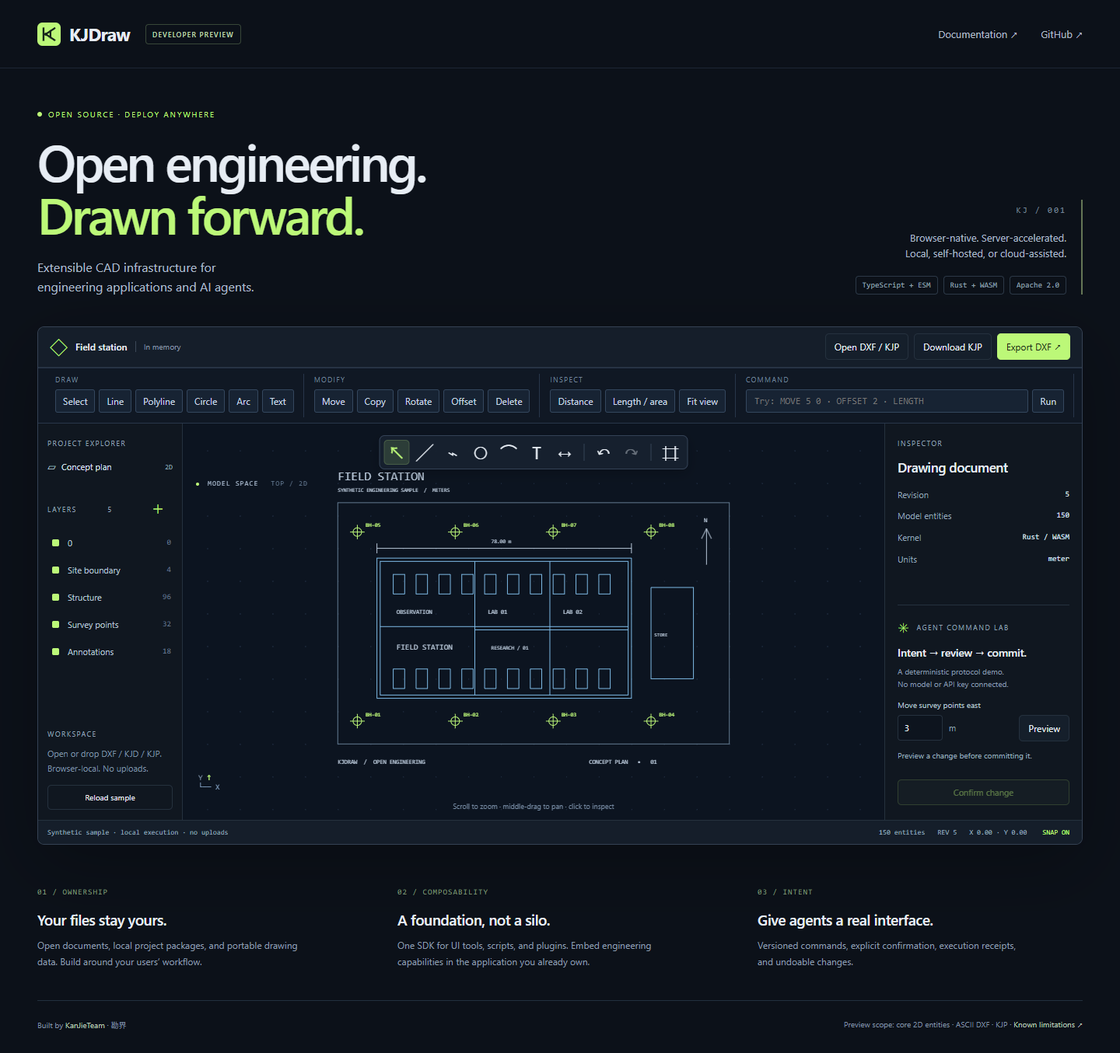
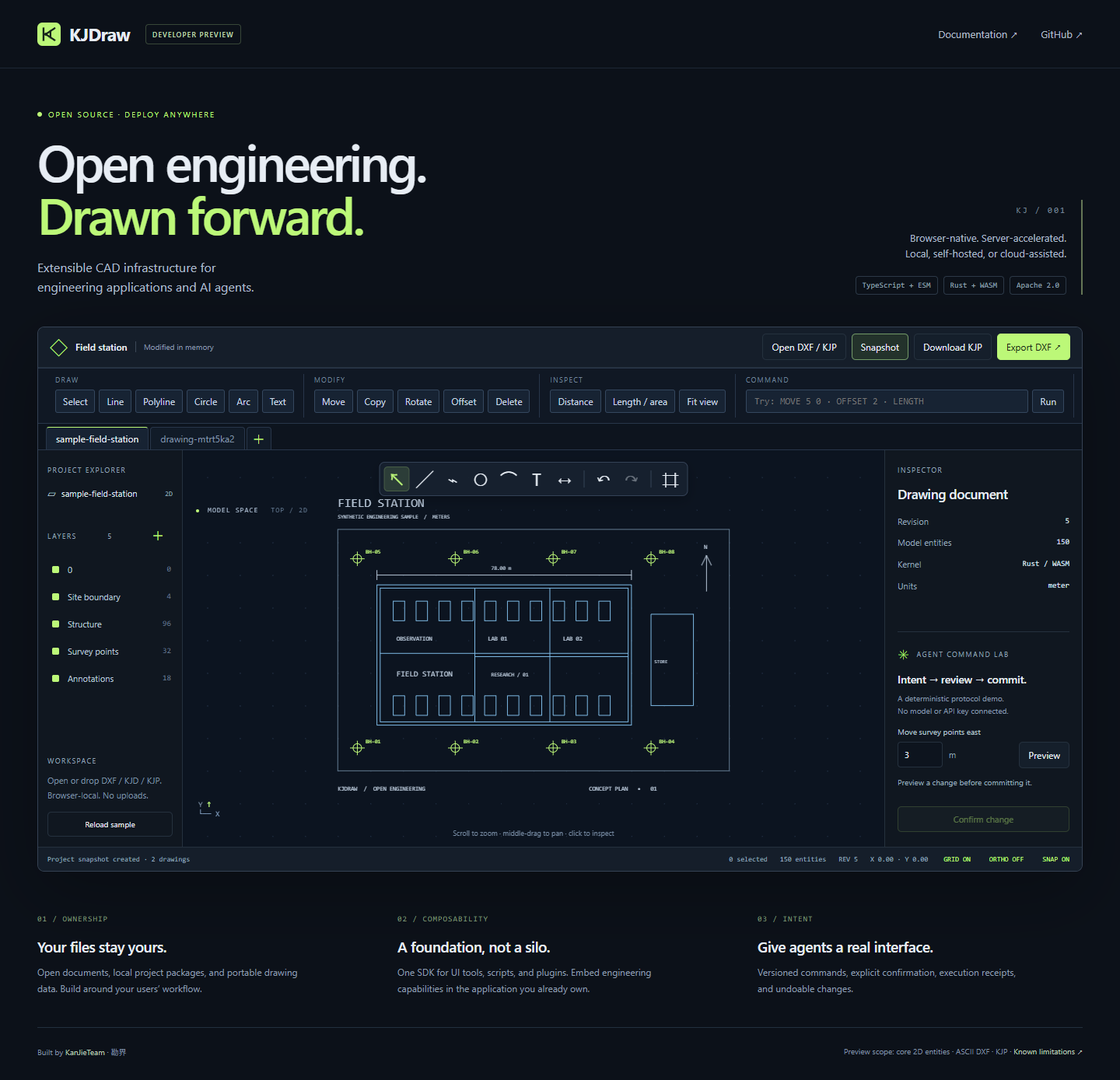
feat: turn the playground into a project workbench

diff --git a/apps/playground/app.js b/apps/playground/app.js
@@ -1,13 +1,16 @@
-import { createKJDrawSDK, KJProjectSession, instantiateKJCoreWasm, createWasmGeometryBackend, registerGeometryBackend, createKJCoreDocumentAuthority, createKJCoreSolidBackend } from '../../packages/kjdraw-sdk/src/index.js'
+import { createKJDrawSDK, KJProjectSession, instantiateKJCoreWasm, createWasmGeometryBackend, registerGeometryBackend, createKJCoreDocumentAuthority, createKJCoreSolidBackend, multiply3, rotation3, scale3, translation3, transformEntityPayload } from '../../packages/kjdraw-sdk/src/index.js'
 import { createSample } from '../../examples/sample.js'
 
 const $ = id => document.getElementById(id)
 const canvas = $('canvas'), ctx = canvas.getContext('2d')
 const camera = { x: 60, y: 38, scale: 4 }
 const colors = ['#c8d7e7','#ee9999','#e8d697','#bdf878','#7db9e4','#b795db','#de91bf','#b8c7d8','#637b91']
-const visibleTypes = new Set(['LINE','RAY','XLINE','CIRCLE','ARC','POINT','LWPOLYLINE','POLYLINE','ELLIPSE','SPLINE','TEXT','MTEXT','ATTDEF','ATTRIB','HATCH','LEADER','MLEADER','DIMENSION','WIPEOUT','REVISION_CLOUD','SOLID','TRACE','TABLE','VIEWPORT'])
-let sdk, session, selection = null, tool = 'select', start = null, draft = [], cursor = null, snapEnabled = true, pendingPlan = null, pan = null, busy = false, authority = null, solidAuthority = null, measurement = '', width = 1, height = 1
+const visibleTypes = new Set(['LINE','RAY','XLINE','CIRCLE','ARC','POINT','LWPOLYLINE','POLYLINE','ELLIPSE','SPLINE','TEXT','MTEXT','ATTDEF','ATTRIB','INSERT','HATCH','LEADER','MLEADER','DIMENSION','WIPEOUT','REVISION_CLOUD','SOLID','TRACE','TABLE','VIEWPORT'])
+let sdk, session, selection = new Set(), tool = 'select', start = null, draft = [], cursor = null, snapEnabled = true, gridEnabled = true, orthoEnabled = false, pendingPlan = null, pan = null, busy = false, authority = null, solidAuthority = null, measurement = '', width = 1, height = 1
 const doc = () => sdk.activeDocument
+const selectedIds = () => [...selection].filter(id => doc()?.getObject(id))
+const primarySelection = () => selectedIds().at(-1) ?? null
+function replaceSelection(ids = []) { selection = new Set(ids.filter(id => doc()?.getObject(id))) }
 const message = text => { $('status').textContent = text }
 const point = p => [(p[0]-camera.x)*camera.scale+width/2, height/2-(p[1]-camera.y)*camera.scale]
 const world = p => [(p[0]-width/2)/camera.scale+camera.x, (height/2-p[1])/camera.scale+camera.y]
@@ -25,10 +28,10 @@ function layerColor(entity) {
   return colors[Math.abs(Number(layer?.payload?.color ?? 7)) % colors.length]
 }
 function isVisible(entity) { if (!entity) return false; const p = doc().getObject(entity.payload?.layerId)?.payload; return p?.visible !== false && !p?.frozen }
-function drawEntity(entity, color, offset = [0,0], dashed = false) {
+function drawEntity(entity, color, offset = [0,0], dashed = false, depth = 0) {
   const p = entity.payload
   const map = v => point([v[0]+offset[0],v[1]+offset[1]])
-  ctx.strokeStyle = color; ctx.fillStyle = color; ctx.lineWidth = entity.id === selection ? 2 : 1; ctx.setLineDash(dashed ? [5,4] : [])
+  ctx.strokeStyle = color; ctx.fillStyle = color; ctx.lineWidth = selection.has(entity.id) ? 2 : 1; ctx.setLineDash(dashed ? [5,4] : [])
   ctx.beginPath()
   if (entity.type === 'LINE') { ctx.moveTo(...map(p.start)); ctx.lineTo(...map(p.end)); ctx.stroke() }
   else if (entity.type === 'RAY' || entity.type === 'XLINE') { const origin=map(p.origin),d=p.direction??[1,0],span=Math.max(width,height)*2,s=Math.hypot(d[0],d[1])||1,dx=d[0]/s*span,dy=-d[1]/s*span;ctx.moveTo(origin[0]-(entity.type==='XLINE'?dx:0),origin[1]-(entity.type==='XLINE'?dy:0));ctx.lineTo(origin[0]+dx,origin[1]+dy);ctx.stroke() }
@@ -49,6 +52,7 @@ function drawEntity(entity, color, offset = [0,0], dashed = false) {
   else if(['SOLID','TRACE','WIPEOUT','REVISION_CLOUD'].includes(entity.type)){const verts=p.vertices??[];verts.forEach((v,i)=>{const q=map(v.point??v);i?ctx.lineTo(...q):ctx.moveTo(...q)});ctx.closePath();ctx.globalAlpha=.15;ctx.fill();ctx.globalAlpha=1;ctx.stroke()}
   else if(entity.type==='VIEWPORT'){const [x,y]=map(p.center);ctx.rect(x-p.width*camera.scale/2,y-p.height*camera.scale/2,p.width*camera.scale,p.height*camera.scale);ctx.stroke()}
   else if(entity.type==='TABLE'){const [x,y]=map(p.position),totalW=(p.columnWidths??[]).reduce((a,b)=>a+b,0),totalH=(p.rowHeights??[]).reduce((a,b)=>a+b,0);ctx.rect(x,y,totalW*camera.scale,totalH*camera.scale);ctx.stroke()}
+  else if(entity.type==='INSERT'&&depth<8){const block=doc().getObject(p.blockRecordId),base=block?.payload?.basePoint??[0,0],factor=Array.isArray(p.scale)?p.scale:[p.scale??1,p.scale??1],matrix=multiply3(translation3(...p.position),multiply3(rotation3(p.rotation??0),multiply3(scale3(factor[0]??1,factor[1]??factor[0]??1),translation3(-base[0],-base[1]))));for(const child of doc().listEntities({ownerId:p.blockRecordId})){try{drawEntity({...child,payload:transformEntityPayload(child.type,child.payload,matrix)},color,offset,dashed,depth+1)}catch{}}}
   ctx.setLineDash([])
 }
 function rendererSupports(entity) { return visibleTypes.has(entity.type) && !(['LWPOLYLINE','POLYLINE'].includes(entity.type) && entity.payload.vertices?.some(v => v.bulge)) }
@@ -58,9 +62,9 @@ function render() {
   ctx.setTransform(ratio,0,0,ratio,0,0); ctx.clearRect(0,0,width,height)
   let grid = 10; while(grid*camera.scale<24)grid*=2; while(grid*camera.scale>100)grid/=2
   const a = world([0,height]), b = world([width,0]); ctx.fillStyle='#243349'
-  for(let x=Math.ceil(a[0]/grid)*grid;x<b[0];x+=grid)for(let y=Math.ceil(a[1]/grid)*grid;y<b[1];y+=grid){const [px,py]=point([x,y]);ctx.fillRect(px,py,1,1)}
+  if(gridEnabled)for(let x=Math.ceil(a[0]/grid)*grid;x<b[0];x+=grid)for(let y=Math.ceil(a[1]/grid)*grid;y<b[1];y+=grid){const [px,py]=point([x,y]);ctx.fillRect(px,py,1,1)}
   const entities = modelEntities()
-  for (const entity of entities) if(isVisible(entity))drawEntity(entity,entity.id === selection ? '#edffd8' : layerColor(entity))
+  for (const entity of entities) if(isVisible(entity))drawEntity(entity,selection.has(entity.id) ? '#edffd8' : layerColor(entity))
   if(pendingPlan)for(const entity of entities)if(pendingPlan.ids.includes(entity.id))drawEntity(entity,'#e4bc7b',[pendingPlan.dx,0],true)
   if(start && cursor)drawEntity({type:tool==='circle'?'CIRCLE':'LINE',payload:tool==='circle'?{center:start,radius:Math.hypot(cursor[0]-start[0],cursor[1]-start[1])}:{start,end:cursor}},'#bdf878',[0,0],true)
   if(tool==='polyline'&&draft.length>1){ctx.strokeStyle='#bdf878';ctx.setLineDash([5,4]);ctx.beginPath();draft.concat(cursor?[cursor]:[]).forEach((v,i)=>{const q=point(v);i?ctx.lineTo(...q):ctx.moveTo(...q)});ctx.stroke();ctx.setLineDash([])}
@@ -89,14 +93,18 @@ function bounds() {
 function fit(){const [x0,y0,x1,y1]=bounds();camera.x=(x0+x1)/2;camera.y=(y0+y1)/2;camera.scale=Math.max(.00001,Math.min((width-70)/Math.max(1,x1-x0),(height-145)/Math.max(1,y1-y0)));render()}
 function field(container,label,value) { const row=document.createElement('div');row.className='kv';const k=document.createElement('span'),v=document.createElement('b');k.textContent=label;v.textContent=String(value);row.append(k,v);container.append(row) }
 function refresh() {
+  const tabs=$('document-tabs');for(const old of tabs.querySelectorAll('[data-document]'))old.remove()
+  for(const drawing of session?.documents?.values()??[]){const button=document.createElement('button');button.dataset.document=drawing.id;button.textContent=drawing.snapshot().title||drawing.id;button.classList.toggle('active',drawing.id===session.activeDocumentId);button.onclick=()=>{session.setActiveDocument(drawing.id);replaceSelection();measurement='';$('drawing-title').textContent=drawing.snapshot().title||drawing.id;refresh();fit();message(`Active drawing · ${drawing.id}`)};tabs.insertBefore(button,$('new-drawing'))}
   $('entity-count').textContent=`${doc().listEntities().length} entities`;$('revision').textContent=`REV ${doc().revision}`
+  $('selection-count').textContent=`${selectedIds().length} selected`
   $('undo').disabled=!doc().history.canUndo;$('redo').disabled=!doc().history.canRedo
   const layers=doc().getTable('layers').records;$('layer-count').textContent=layers.length
   $('layers').replaceChildren()
   for(const layer of layers){const label=document.createElement('label');label.className='layer';const input=document.createElement('input');input.type='checkbox';input.checked=layer.payload.visible!==false;input.setAttribute('aria-label',`Show layer ${layer.name}`);input.onchange=()=>run(()=>execute('LAYERUPDATE',{id:layer.id,patch:{visible:input.checked}}));const name=document.createElement('span');name.textContent=layer.name;const count=document.createElement('small');count.textContent=doc().listEntities().filter(e=>e.payload.layerId===layer.id).length;label.append(input,name,count);$('layers').append(label)}
-  const entity=selection?doc().getObject(selection):null; if(!entity)selection=null
-  $('inspector').replaceChildren();const title=document.createElement('h3');title.textContent=entity?entity.type:'Drawing document';$('inspector').append(title)
+  replaceSelection(selectedIds());const entity=primarySelection()?doc().getObject(primarySelection()):null
+  $('inspector').replaceChildren();const title=document.createElement('h3');title.textContent=selectedIds().length>1?`${selectedIds().length} objects selected`:entity?entity.type:'Drawing document';$('inspector').append(title)
   if(entity){
+    if(selectedIds().length>1){const summary=document.createElement('div');summary.className='selection-summary';summary.textContent=`Primary: ${entity.type} · transforms and delete apply to all selected objects`;$('inspector').append(summary)}
     field($('inspector'),'Handle',entity.handle);field($('inspector'),'Layer',doc().getObject(entity.payload.layerId)?.name??'0');if(entity.payload.radius)field($('inspector'),'Radius',entity.payload.radius.toFixed(3));if(entity.payload.text)field($('inspector'),'Text',entity.payload.text)
     const editor=document.createElement('div');editor.className='property-editor'
     const layerLabel=document.createElement('label');layerLabel.textContent='LAYER';const layerSelect=document.createElement('select')
@@ -106,7 +114,7 @@ function refresh() {
     if(entity.type==='CIRCLE'||entity.type==='ARC'){const label=document.createElement('label');label.textContent='RADIUS';valueInput=document.createElement('input');valueInput.type='number';valueInput.min='0.000001';valueInput.step='0.1';valueInput.value=entity.payload.radius;label.append(valueInput);editor.append(label)}
     if(entity.type==='TEXT'||entity.type==='MTEXT'){const label=document.createElement('label');label.textContent='TEXT';valueInput=document.createElement('input');valueInput.value=entity.payload.text??'';label.append(valueInput);editor.append(label)}
     const save=document.createElement('button');save.textContent='Apply properties';save.onclick=()=>run(async()=>{const payload={...entity.payload,layerId:layerSelect.value};if(valueInput&&(entity.type==='CIRCLE'||entity.type==='ARC'))payload.radius=Number(valueInput.value);if(valueInput&&(entity.type==='TEXT'||entity.type==='MTEXT'))payload.text=valueInput.value;await execute('PROPERTIES',{id:entity.id,patch:{payload}})});editor.append(save);$('inspector').append(editor)
-    const erase=document.createElement('button');erase.textContent='Delete selected';erase.onclick=()=>run(()=>execute('ERASE',{ids:[selection]}));$('inspector').append(erase)
+    const erase=document.createElement('button');erase.textContent='Delete selected';erase.onclick=()=>run(()=>execute('ERASE',{ids:selectedIds()}));$('inspector').append(erase)
   }
   else {field($('inspector'),'Revision',doc().revision);field($('inspector'),'Model entities',modelEntities().length);field($('inspector'),'Kernel',authority?'Rust / WASM':'JS reference');field($('inspector'),'Units',doc().snapshot().header.units??'unspecified')}
   const omitted=modelEntities().filter(e=>!rendererSupports(e)).length
@@ -124,27 +132,27 @@ async function query(command,args={}) {
   measurement=`${command}: ${JSON.stringify(result)}`
   refresh();message(`${command} completed · drawing unchanged`);return result
 }
-function requireSelection(){const entity=selection?doc().getObject(selection):null;if(!entity)throw new Error('Select an entity first.');return entity}
+function requireSelection(){const entity=primarySelection()?doc().getObject(primarySelection()):null;if(!entity)throw new Error('Select an entity first.');return entity}
 async function transformSelection(command){
-  const entity=requireSelection()
-  if(command==='MOVE'||command==='COPY'){const dx=Number(window.prompt(`${command} X distance`,'5'));if(!Number.isFinite(dx))return;const dy=Number(window.prompt(`${command} Y distance`,'0'));if(!Number.isFinite(dy))return;const result=await execute(command,{ids:[entity.id],dx,dy});if(command==='COPY'&&Array.isArray(result)&&result[0]?.id)selection=result[0].id}
-  else if(command==='ROTATE'){const degrees=Number(window.prompt('Rotation angle in degrees','15'));if(!Number.isFinite(degrees))return;await execute('ROTATE',{ids:[entity.id],angle:degrees*Math.PI/180,center:[0,0]})}
-  else if(command==='OFFSET'){const distance=Number(window.prompt('Offset distance','2'));if(!Number.isFinite(distance))return;const result=await execute('OFFSET',{id:entity.id,distance});if(result?.id)selection=result.id}
+  const entity=requireSelection(),ids=selectedIds()
+  if(command==='MOVE'||command==='COPY'){const dx=Number(window.prompt(`${command} X distance`,'5'));if(!Number.isFinite(dx))return;const dy=Number(window.prompt(`${command} Y distance`,'0'));if(!Number.isFinite(dy))return;const result=await execute(command,{ids,dx,dy});if(command==='COPY'&&Array.isArray(result))replaceSelection(result.map(row=>row.id).filter(Boolean))}
+  else if(command==='ROTATE'){const degrees=Number(window.prompt('Rotation angle in degrees','15'));if(!Number.isFinite(degrees))return;await execute('ROTATE',{ids,angle:degrees*Math.PI/180,center:[0,0]})}
+  else if(command==='OFFSET'){if(ids.length!==1)throw new Error('OFFSET requires exactly one selected object.');const distance=Number(window.prompt('Offset distance','2'));if(!Number.isFinite(distance))return;const result=await execute('OFFSET',{id:entity.id,distance});if(result?.id)replaceSelection([result.id])}
   refresh()
 }
 async function runTypedCommand(){
   const raw=$('command-input').value.trim();if(!raw)return
   const [name,...values]=raw.split(/[\s,]+/),command=name.toUpperCase();$('command-input').value=''
   if(command==='FIT'){fit();message('View fitted');return}if(command==='UNDO'||command==='REDO'){await execute(command);return}
-  if(command==='MOVE'||command==='COPY'){const entity=requireSelection(),dx=Number(values[0]??0),dy=Number(values[1]??0);await execute(command,{ids:[entity.id],dx,dy});return}
-  if(command==='ROTATE'){const entity=requireSelection();await execute(command,{ids:[entity.id],angle:Number(values[0]??0)*Math.PI/180,center:[0,0]});return}
+  if(command==='MOVE'||command==='COPY'){requireSelection();const dx=Number(values[0]??0),dy=Number(values[1]??0);const result=await execute(command,{ids:selectedIds(),dx,dy});if(command==='COPY'&&Array.isArray(result))replaceSelection(result.map(row=>row.id).filter(Boolean));return}
+  if(command==='ROTATE'){requireSelection();await execute(command,{ids:selectedIds(),angle:Number(values[0]??0)*Math.PI/180,center:[0,0]});return}
   if(command==='OFFSET'){await execute(command,{id:requireSelection().id,distance:Number(values[0]??1)});return}
-  if(command==='ERASE'||command==='DELETE'){await execute('ERASE',{ids:[requireSelection().id]});return}
+  if(command==='ERASE'||command==='DELETE'){requireSelection();await execute('ERASE',{ids:selectedIds()});return}
   if(command==='LENGTH'||command==='AREA'){await query(command,{ids:[requireSelection().id]});return}
   throw new Error(`Supported commands: MOVE, COPY, ROTATE, OFFSET, LENGTH, AREA, ERASE, UNDO, REDO, FIT`)
 }
 async function run(work){if(busy)return;busy=true;try{await work()}catch(e){message(e.cause?.message??e.message);console.error(e)}finally{busy=false}}
-async function freshSample(){const next=createKJDrawSDK({documentAuthority:authority,solidAuthority});const document=await createSample(next);session?.destroy();sdk=next;session=KJProjectSession.create({sdk,id:'sample-field-station',title:'Field station',documents:[document],metadata:{synthetic:true}});selection=null;invalidatePlan();$('file-name').textContent='Field station';$('drawing-title').textContent='Concept plan';$('file-state').textContent='In memory';refresh();fit();message('Synthetic sample · local execution · no uploads')}
+async function freshSample(){const next=createKJDrawSDK({documentAuthority:authority,solidAuthority});const document=await createSample(next);session?.destroy();sdk=next;session=KJProjectSession.create({sdk,id:'sample-field-station',title:'Field station',documents:[document],metadata:{synthetic:true}});replaceSelection();invalidatePlan();$('file-name').textContent='Field station';$('drawing-title').textContent='Concept plan';$('file-state').textContent='In memory';refresh();fit();message('Synthetic sample · local execution · no uploads')}
 function download(content,name,type){const url=URL.createObjectURL(new Blob([content],{type}));const link=document.createElement('a');link.href=url;link.download=name;link.click();setTimeout(()=>URL.revokeObjectURL(url),30000)}
 async function openFile(file){
   if(!file)return
@@ -152,13 +160,14 @@ async function openFile(file){
   const next=createKJDrawSDK({documentAuthority:authority,solidAuthority});let project
   if(file.name.toLowerCase().endsWith('.kjp'))project=await KJProjectSession.open(new Uint8Array(await file.arrayBuffer()),{sdk:next})
   else {const format=file.name.toLowerCase().endsWith('.dxf')?'DXF':'KJD';const drawing=await next.readDocument(format==='DXF'?new Uint8Array(await file.arrayBuffer()):await file.text(),{format});project=KJProjectSession.create({sdk:next,title:file.name,documents:[drawing]})}
-  session?.destroy();sdk=next;session=project;selection=null;invalidatePlan();setTool('select');$('file-name').textContent=file.name;$('drawing-title').textContent=project.activeDocument.id;$('file-state').textContent='Opened locally';refresh();fit();message('File opened locally · unsupported view entities remain in the document')
+  session?.destroy();sdk=next;session=project;replaceSelection();invalidatePlan();setTool('select');$('file-name').textContent=file.name;$('drawing-title').textContent=project.activeDocument.snapshot().title||project.activeDocument.id;$('file-state').textContent='Opened locally';refresh();fit();message('File opened locally · unsupported view entities remain in the document')
 }
 $('open').onclick=()=>$('file-input').click()
 $('file-input').onchange=e=>run(async()=>{try{await openFile(e.target.files[0])}finally{e.target.value=''}})
 for(const eventName of ['dragenter','dragover'])$('drop-zone').addEventListener(eventName,e=>{e.preventDefault();$('drop-zone').classList.add('dragging')})
 for(const eventName of ['dragleave','drop'])$('drop-zone').addEventListener(eventName,e=>{e.preventDefault();$('drop-zone').classList.remove('dragging')})
 $('drop-zone').addEventListener('drop',e=>run(()=>openFile(e.dataTransfer?.files?.[0])))
+$('snapshot').onclick=()=>{const record=session.createSnapshot(`Snapshot ${session.snapshotLedger.length+1}`);$('file-state').textContent='Modified in memory';message(`Project snapshot created · ${record.documents.length} drawing${record.documents.length===1?'':'s'}`)}
 $('save').onclick=()=>run(async()=>{const bytes=await session.package();download(bytes,'drawing.kjp','application/zip');message('KJP download requested · includes every drawing in this project')})
 $('export').onclick=()=>run(async()=>{const text=await sdk.writeDocument(doc(),{format:'DXF',version:'2018'});download(text,'drawing.dxf','application/dxf');message('ASCII DXF 2018 downloaded · core adapter, see compatibility limits')})
 $('undo').onclick=()=>run(()=>execute('UNDO'));$('redo').onclick=()=>run(()=>execute('REDO'));$('fit').onclick=fit
@@ -167,13 +176,16 @@ $('move-selection').onclick=()=>run(()=>transformSelection('MOVE'))
 $('copy-selection').onclick=()=>run(()=>transformSelection('COPY'))
 $('rotate-selection').onclick=()=>run(()=>transformSelection('ROTATE'))
 $('offset-selection').onclick=()=>run(()=>transformSelection('OFFSET'))
-$('delete-selection').onclick=()=>run(()=>execute('ERASE',{ids:[requireSelection().id]}))
+$('delete-selection').onclick=()=>run(()=>{requireSelection();return execute('ERASE',{ids:selectedIds()})})
 $('measure-entity').onclick=()=>run(async()=>{const entity=requireSelection();const supportedArea=['CIRCLE','ELLIPSE','LWPOLYLINE','POLYLINE','SOLID','TRACE'].includes(entity.type);await query(supportedArea?'AREA':'LENGTH',{ids:[entity.id]})})
 $('run-command').onclick=()=>run(runTypedCommand)
 $('command-input').onkeydown=e=>{if(e.key==='Enter')run(runTypedCommand)}
 $('new-layer').onclick=()=>run(async()=>{const name=window.prompt('New layer name','Design');if(!name?.trim())return;await execute('LAYERNEW',{name:name.trim(),color:3})})
+$('new-drawing').onclick=()=>run(async()=>{const name=window.prompt('Drawing name',`Drawing ${session.documents.size+1}`);if(!name?.trim())return;const id=`drawing-${Date.now().toString(36)}`,drawing=sdk.createDocument({documentId:id,title:name.trim(),units:doc().snapshot().header.units??'unitless'});session.attachDocument(drawing);session.setActiveDocument(id);replaceSelection();measurement='';$('drawing-title').textContent=name.trim();$('file-state').textContent='Modified in memory';refresh();fit();message(`Drawing created · ${name.trim()}`)})
 $('reset').onclick=()=>run(async()=>{if(window.confirm('Replace the open project with the sample? Download KJP first to keep your changes.'))await freshSample()})
 $('snap').onclick=()=>{snapEnabled=!snapEnabled;$('snap').textContent=`SNAP ${snapEnabled?'ON':'OFF'}`;$('snap').setAttribute('aria-pressed',String(snapEnabled))}
+$('grid').onclick=()=>{gridEnabled=!gridEnabled;$('grid').textContent=`GRID ${gridEnabled?'ON':'OFF'}`;$('grid').setAttribute('aria-pressed',String(gridEnabled));render()}
+$('ortho').onclick=()=>{orthoEnabled=!orthoEnabled;$('ortho').textContent=`ORTHO ${orthoEnabled?'ON':'OFF'}`;$('ortho').setAttribute('aria-pressed',String(orthoEnabled));render()}
 for(const b of document.querySelectorAll('[data-tool]'))b.onclick=()=>setTool(b.dataset.tool)
 $('shift').oninput=()=>{invalidatePlan();render()}
 $('plan').onclick=()=>run(async()=>{
@@ -193,17 +205,22 @@ $('confirm').onclick=()=>run(async()=>{
 })
 function pointer(e){const r=canvas.getBoundingClientRect();return [e.clientX-r.left,e.clientY-r.top]}
 function snap(p){if(!snapEnabled||!sdk)return p;const hits=sdk.snap(p,{radius:8/camera.scale,modes:['endpoint','midpoint','center','nearest']});return hits[0]?.point??p}
+function constrainedPoint(p){const value=snap(p);if(!orthoEnabled||!start)return value;const dx=Math.abs(value[0]-start[0]),dy=Math.abs(value[1]-start[1]);return dx>=dy?[value[0],start[1]]:[start[0],value[1]]}
 canvas.onpointermove=e=>{
   const p=pointer(e)
   if(pan){camera.x=pan.x-(p[0]-pan.p[0])/camera.scale;camera.y=pan.y+(p[1]-pan.p[1])/camera.scale;render();return}
-  cursor=snap(world(p));$('coordinates').textContent=`X ${cursor[0].toFixed(2)} · Y ${cursor[1].toFixed(2)}`;if(start)render()
+  cursor=constrainedPoint(world(p));$('coordinates').textContent=`X ${cursor[0].toFixed(2)} · Y ${cursor[1].toFixed(2)}`;if(start)render()
 }
 canvas.onpointerdown=e=>{
   if(e.button===1){e.preventDefault();pan={p:pointer(e),x:camera.x,y:camera.y};canvas.setPointerCapture(e.pointerId);return}
   if(e.button!==0||busy)return
-  const p=snap(world(pointer(e)))
+  const p=constrainedPoint(world(pointer(e)))
   if(tool==='select'){
-    const candidates=sdk.snap(world(pointer(e)),{radius:10/camera.scale,modes:['nearest','center','endpoint']});selection=candidates.find(c=>isVisible(doc().getObject(c.entityIds[0])))?.entityIds[0]??null;refresh();return
+    const candidates=sdk.snap(world(pointer(e)),{radius:10/camera.scale,modes:['nearest','center','endpoint']})
+      .map(candidate=>candidate.entityIds[0]).filter((id,index,ids)=>ids.indexOf(id)===index&&isVisible(doc().getObject(id)))
+    const id=e.shiftKey?(candidates.find(candidate=>!selection.has(candidate))??candidates[0]??null):(candidates[0]??null)
+    if(e.shiftKey){if(id)selection.has(id)?selection.delete(id):selection.add(id)}else replaceSelection(id?[id]:[])
+    refresh();return
   }
   if(tool==='text'){const text=window.prompt('Text content','KJDraw');if(text)run(()=>execute('CREATE',{type:'TEXT',payload:{position:p,height:2.5,rotation:0,text}}));return}
   if(tool==='measure'){

diff --git a/apps/playground/index.html b/apps/playground/index.html
@@ -8,25 +8,27 @@
   <link rel="icon" href="./docs/assets/mark.svg" type="image/svg+xml">
   <link rel="stylesheet" href="./apps/playground/style.css">
   <link rel="stylesheet" href="./apps/playground/workbench.css">
+  <link rel="stylesheet" href="./apps/playground/studio.css">
 </head>
 <body>
   <header class="site-header"><a class="brand" href="./"><img src="./docs/assets/mark.svg" alt="" width="30" height="30">KJDraw<span class="tag">DEVELOPER PREVIEW</span></a><nav><a href="./docs/getting-started.md">Documentation ↗</a><a href="https://github.com/KanJieTeam/kjdraw">GitHub ↗</a></nav></header>
   <main>
     <section class="hero"><div><div class="eyebrow"><span class="dot"></span> OPEN SOURCE · DEPLOY ANYWHERE</div><h1>Open engineering.<br><span>Drawn forward.</span></h1><p>Extensible CAD infrastructure for<br class="desktop"> engineering applications and AI agents.</p></div><div class="hero-aside"><span class="issue">KJ / 001</span><p>Browser-native. Server-accelerated.<br>Local, self-hosted, or cloud-assisted.</p><div class="tech-tags"><span>TypeScript + ESM</span><span>Rust + WASM</span><span>Apache 2.0</span></div></div></section>
     <section class="workbench" aria-label="KJDraw interactive playground">
-      <div class="workbench-head"><div class="file-title"><span class="file-icon">◇</span><strong id="file-name">Field station</strong><span id="file-state">In memory</span></div><div class="file-actions"><button id="open">Open DXF / KJP</button><button id="save">Download KJP</button><button id="export" class="primary">Export DXF ↗</button><input id="file-input" type="file" accept=".dxf,.kjp,.kjd" hidden></div></div>
+      <div class="workbench-head"><div class="file-title"><span class="file-icon">◇</span><strong id="file-name">Field station</strong><span id="file-state">In memory</span></div><div class="file-actions"><button id="open">Open DXF / KJP</button><button id="snapshot">Snapshot</button><button id="save">Download KJP</button><button id="export" class="primary">Export DXF ↗</button><input id="file-input" type="file" accept=".dxf,.kjp,.kjd" hidden></div></div>
       <div class="cad-ribbon" aria-label="CAD commands">
         <div class="ribbon-group"><small>DRAW</small><button data-tool="select">Select</button><button data-tool="line">Line</button><button data-tool="polyline">Polyline</button><button data-tool="circle">Circle</button><button data-tool="arc">Arc</button><button data-tool="text">Text</button></div>
         <div class="ribbon-group"><small>MODIFY</small><button id="move-selection">Move</button><button id="copy-selection">Copy</button><button id="rotate-selection">Rotate</button><button id="offset-selection">Offset</button><button id="delete-selection">Delete</button></div>
         <div class="ribbon-group"><small>INSPECT</small><button data-tool="measure">Distance</button><button id="measure-entity">Length / area</button><button id="fit-ribbon">Fit view</button></div>
         <div class="ribbon-group ribbon-command"><small>COMMAND</small><input id="command-input" aria-label="Command input" placeholder="Try: MOVE 5 0 · OFFSET 2 · LENGTH" autocomplete="off"><button id="run-command">Run</button></div>
       </div>
+      <div class="document-tabs" id="document-tabs" aria-label="Project drawings"><button id="new-drawing" title="Add drawing">＋</button></div>
       <div class="workspace">
         <aside class="left-panel"><div class="panel-heading">PROJECT EXPLORER</div><div class="document-row">▱ <span id="drawing-title">Concept plan</span><span class="small-label">2D</span></div><div class="panel-heading section-space">LAYERS <span id="layer-count"></span><button id="new-layer" class="panel-add" title="Create layer">＋</button></div><div id="layers"></div><div class="left-bottom"><div class="panel-heading">WORKSPACE</div><p>Open or drop DXF / KJD / KJP.<br>Browser-local. No uploads.</p><button id="reset">Reload sample</button></div></aside>
         <div class="stage" id="drop-zone"><div class="toolbar" role="toolbar" aria-label="Drawing tools"><button data-tool="select" class="active" title="Select (V)" aria-label="Select" aria-pressed="true">↖</button><button data-tool="line" title="Line (L)" aria-label="Draw line" aria-pressed="false">╱</button><button data-tool="polyline" title="Polyline (P)" aria-label="Draw polyline" aria-pressed="false">⌁</button><button data-tool="circle" title="Circle (C)" aria-label="Draw circle" aria-pressed="false">○</button><button data-tool="arc" title="Arc (A)" aria-label="Draw arc" aria-pressed="false">⌒</button><button data-tool="text" title="Text (T)" aria-label="Draw text" aria-pressed="false">T</button><button data-tool="measure" title="Distance (D)" aria-label="Measure distance" aria-pressed="false">↔</button><span class="separator"></span><button id="undo" title="Undo" aria-label="Undo">↶</button><button id="redo" title="Redo" aria-label="Redo">↷</button><span class="separator"></span><button id="fit" title="Fit drawing" aria-label="Fit drawing">⌗</button></div><canvas id="canvas" aria-label="CAD drawing canvas" tabindex="0"></canvas><div class="stage-label"><span class="dot"></span> MODEL SPACE <span>TOP / 2D</span></div><div class="orientation">Y <span>↑</span><div>└── X</div></div><div id="hint" class="stage-hint">Scroll to zoom · middle-drag to pan · click to inspect</div><div id="drop-hint" class="drop-hint">Drop DXF / KJD / KJP to open locally</div></div>
         <aside class="right-panel"><div class="panel-heading">INSPECTOR</div><div id="inspector" class="inspector"></div><div class="agent-panel"><div class="panel-heading"><span class="agent-symbol">✳</span> AGENT COMMAND LAB</div><h3>Intent → review → commit.</h3><p>A deterministic protocol demo.<br>No model or API key connected.</p><label for="shift">Move survey points east</label><div class="input-row"><input id="shift" type="number" min="-100" max="100" step="1" value="3"><span>m</span><button id="plan">Preview</button></div><div id="plan-state" class="plan-state">Preview a change before committing it.</div><button id="confirm" class="confirm" disabled>Confirm change</button></div></aside>
       </div>
-      <div class="statusbar"><span id="status" role="status" aria-live="polite">Loading local SDK…</span><div><span id="entity-count">0 entities</span><span id="revision">REV 0</span><span id="coordinates">X 0.00 · Y 0.00</span><button id="snap" aria-pressed="true">SNAP ON</button></div></div>
+      <div class="statusbar"><span id="status" role="status" aria-live="polite">Loading local SDK…</span><div><span id="selection-count">0 selected</span><span id="entity-count">0 entities</span><span id="revision">REV 0</span><span id="coordinates">X 0.00 · Y 0.00</span><button id="grid" aria-pressed="true">GRID ON</button><button id="ortho" aria-pressed="false">ORTHO OFF</button><button id="snap" aria-pressed="true">SNAP ON</button></div></div>
     </section>
     <section class="principles"><article><span>01 / OWNERSHIP</span><h2>Your files stay yours.</h2><p>Open documents, local project packages, and portable drawing data. Build around your users’ workflow.</p></article><article><span>02 / COMPOSABILITY</span><h2>A foundation, not a silo.</h2><p>One SDK for UI tools, scripts, and plugins. Embed engineering capabilities in the application you already own.</p></article><article><span>03 / INTENT</span><h2>Give agents a real interface.</h2><p>Versioned commands, explicit confirmation, execution receipts, and undoable changes.</p></article></section>
     <footer><span>Built by <a href="https://github.com/KanJieTeam">KanJieTeam</a> · 勘界</span><span>Preview scope: core 2D entities · ASCII DXF · KJP · <a href="./docs/status.md">Known limitations ↗</a></span></footer>

diff --git a/apps/playground/studio.css b/apps/playground/studio.css
@@ -1,0 +1,51 @@
+.document-tabs {
+  height: 34px;
+  display: flex;
+  align-items: end;
+  gap: 2px;
+  padding: 4px 10px 0;
+  overflow-x: auto;
+  border-bottom: 1px solid #28364a;
+  background: #0d141e;
+}
+
+.document-tabs button {
+  height: 29px;
+  min-width: 110px;
+  padding: 0 12px;
+  border: 1px solid #28364a;
+  border-bottom: 0;
+  border-radius: 4px 4px 0 0;
+  background: #111b28;
+  color: #8295aa;
+  white-space: nowrap;
+}
+
+.document-tabs button.active {
+  border-top-color: #bdf878;
+  background: #172333;
+  color: #e7edf4;
+}
+
+.document-tabs #new-drawing {
+  width: 32px;
+  min-width: 32px;
+  padding: 0;
+  color: #bdf878;
+  font-size: 16px;
+}
+
+.selection-summary {
+  margin: 8px 0;
+  padding: 8px;
+  border-left: 2px solid #bdf878;
+  background: #15211b;
+  color: #dfffc1;
+  font: 10px Consolas, monospace;
+}
+
+@media (max-width: 780px) {
+  .document-tabs { padding-left: 7px; }
+  .document-tabs button { min-width: 90px; }
+  #selection-count, #grid, #ortho { display: none; }
+}

diff --git a/README.md b/README.md
@@ -41,7 +41,7 @@ node scripts/serve.mjs
 
 Open **http://localhost:4173**. No package installation, account, model API key, or backend service is needed. A prebuilt WASM kernel is included; its Rust source is in this repository. Applications can later attach explicit project, compute or scene providers for self-hosted and cloud-assisted deployments.
 
-The playground uses an original, synthetic field-station plan. Open or drop DXF/KJD/KJP files, draw lines, polylines, circles, arcs and text, edit layers and properties, measure geometry, run common modify commands, undo changes, download a KJP project, or export the ASCII DXF core subset. In the **Agent Command Lab**, preview moving the survey-point layer, inspect the amber proposal, and explicitly confirm the change.
+The playground uses an original, synthetic field-station plan. Open or drop DXF/KJD/KJP files; create multiple drawings in one project; capture project-wide snapshots; draw lines, polylines, circles, arcs and text; Shift-select and transform object sets; toggle grid, object snap and orthographic constraints; edit layers and properties; measure geometry; undo changes; download a KJP project; or export the ASCII DXF core subset. In the **Agent Command Lab**, preview moving the survey-point layer, inspect the amber proposal, and explicitly confirm the change.
 
 The command lab is a deterministic example of the agent protocol, not a connected language model. Files are processed in your browser. The playground does not upload drawings or include analytics. Download KJP before leaving the page to keep edits.
 
@@ -58,6 +58,7 @@ The command lab is a deterministic example of the agent protocol, not a connecte
 | Foundation | Available in this preview |
 | --- | --- |
 | **Documents** | Stable object IDs and CAD handles; layers, blocks, model/paper spaces, resources and revisions |
+| **Workbench** | Multi-drawing project tabs, project snapshots, multi-selection, drafting toggles, properties, measurements and responsive layouts |
 | **Editing** | Atomic transactions, undo/redo, transforms, selection, snaps and a declared subset of trim/extend/offset/fillet operations |
 | **File exchange** | JSON KJD documents, ZIP64 KJP projects, development ASCII DXF adapter with explicit limitations |
 | **Extensions** | Registries for commands, entities, file adapters and other extension points; plugin compatibility and permission declarations |

diff --git a/README.zh-CN.md b/README.zh-CN.md
@@ -33,7 +33,7 @@ node scripts/serve.mjs
 
 打开 **http://localhost:4173**。无需安装 npm 依赖、注册账号、配置模型密钥或启动业务后端。仓库包含可重建的 WASM 文件和对应 Rust 源码。实际应用可以按需挂接工程存储、远程计算和大场景流送 Provider。
 
-演示图由原创合成数据生成。可以打开或拖入 DXF/KJD/KJP，绘制直线、折线、圆、圆弧和文字，编辑图层与对象属性，测量几何，执行常用修改命令，撤销、下载 KJP、导出 ASCII DXF。右侧 **Agent Command Lab** 可预览勘探点图层的移动，再由用户确认提交；琥珀色虚线表示建议位置。
+演示图由原创合成数据生成。可以打开或拖入 DXF/KJD/KJP，在一个工程中创建和切换多张图纸，生成覆盖全部图纸的工程快照，绘制直线、折线、圆、圆弧和文字，Shift 多选并整组变换，切换栅格、对象捕捉和正交约束，编辑图层与对象属性，测量几何，撤销、下载 KJP、导出 ASCII DXF。右侧 **Agent Command Lab** 可预览勘探点图层的移动，再由用户确认提交；琥珀色虚线表示建议位置。
 
 这是确定性的命令协议演示，尚未接入大模型。文件在浏览器本地处理，演示不上传图纸，也不包含分析埋点。离开页面前请下载 KJP 保存修改。
 
@@ -50,6 +50,7 @@ node scripts/serve.mjs
 | 能力 | 当前范围 |
 | --- | --- |
 | 文档与文件 | 稳定对象 ID、CAD 句柄、图层、块、资源、版本、KJD 文档、KJP 工程包 |
+| 通用工作台 | 多图纸标签、工程快照、多选、绘图约束、属性与测量、响应式布局 |
 | 编辑 | 事务、撤销/重做、变换、选取、捕捉及部分精确修剪/延伸/偏移组合 |
 | 交换 | 开发阶段的 ASCII DXF 核心子集；限制明确公开 |
 | 扩展 | 命令、对象与文件适配器注册、插件版本与权限声明 |

diff --git a/docs/releases/0.4.0-preview.1.md b/docs/releases/0.4.0-preview.1.md
@@ -1,0 +1,20 @@
+# KJDraw 0.4.0-preview.1
+
+**A generic CAD workbench that behaves like a project, not a single demo canvas.**
+
+## Workbench additions
+
+- Create and switch between multiple drawings in one KJP project.
+- Capture named project snapshots across all drawings.
+- Shift-click to build a multi-object selection; move, copy, rotate and delete the selection as one command.
+- Toggle drawing grid and orthographic point constraints.
+- Render supported geometry nested inside block inserts.
+- Preserve the existing open/edit/export/reopen and Agent plan/confirm/undo workflows.
+
+## Verification
+
+- 86 public SDK, deployment, WASM, file and sample tests pass.
+- Browser QA covers multiple drawings, project snapshots, Grid/Ortho, Shift multi-selection, grouped transforms/deletion, drawing tools, file round trips, transactional Agent commands and responsive layouts.
+- The tested public workbench makes no external requests and reports no page errors.
+
+This remains a developer preview. Complete block attributes, certified plotting, DWG and general BRep are not claimed.

diff --git a/docs/capability-matrix.md b/docs/capability-matrix.md
@@ -16,6 +16,7 @@ Run `node scripts/test.mjs` and `node scripts/check.mjs` to reproduce the public
 | Area | Current public capability | Status |
 | --- | --- | --- |
 | Document model | Stable IDs/handles, ownership, tables, model/paper spaces, resources, revisions | Available |
+| Browser workbench | Multi-drawing tabs, project snapshots, Shift multi-select, grouped transforms, grid/snap/ortho controls and nested supported block geometry | Available for the demonstrated entity subset |
 | Transactions | Atomic commit, rollback, undo/redo, expected-revision conflicts | Available |
 | 2D editing | Create/erase/properties, transforms, arrays, offset, break, explode, trim/extend, chamfer/fillet | Available for declared combinations |
 | Inspection | Length, area, distance, angle, nearest point and intersections | Available for declared combinations |

diff --git a/CHANGELOG.md b/CHANGELOG.md
@@ -1,5 +1,13 @@
 # Changelog
 
+## 0.4.0-preview.1
+
+- Added real multi-drawing project tabs, drawing creation and packaged project snapshots to the browser workbench.
+- Added Shift multi-selection with group move/copy/rotate/delete behavior.
+- Added Grid and Ortho drafting controls and status feedback.
+- Added nested block-insert rendering for supported public entity geometry.
+- Extended real-browser QA across the new project and drafting workflows.
+
 ## 0.3.1-preview.1
 
 - Repositioned KJDraw as extensible, deployment-neutral CAD infrastructure: browser-native, server-accelerated and deployable locally, self-hosted or cloud-assisted.
